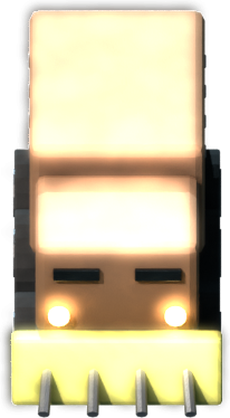
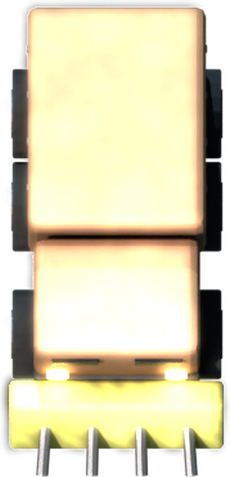
Lengthen Last Stand to 2 minutes; vehicles follow the road
- Four waves over 120 seconds instead of three over 60, with the War
  Rig in the last 16 seconds and a Lumen line for each wave.
- Raider vehicles are re-rendered from nearly overhead, so they can be
  turned to face their direction of travel.
- They follow a rounded version of the road (corner-cut, still inside
  the drawn road), steer gradually, keep their own drifting lane, ease
  off into bends, bounce and judder, and kick up dust.

Balance re-checked by simulation: idle play fails from threat 2, gun
nest spam holds to about 9, a planned build to about 12 or 13.

diff --git a/client/operations.js b/client/operations.js
@@ -158,29 +158,30 @@
       const raiders = [], rounds = [], shells = [], beams = [], flames = [], fx = [], popups = [], towers = LS_PADS.map(() => null);
       const dist = (a, b) => Math.hypot((a.x - b.x) * FWH, a.y - b.y);
       // the road as segments measured in canvas heights, so raider speeds read the same on every screen
-      const segs = []; let roadLength = 0; for (let i = 1; i < LS_PATH.length; i++) { const [x0, y0] = LS_PATH[i - 1], [x1, y1] = LS_PATH[i], len = Math.hypot((x1 - x0) * FWH, y1 - y0); segs.push({ x0, y0, x1, y1, len, at: roadLength }); roadLength += len; }
-      function along(d) { const sg = segs.find(q => d <= q.at + q.len) || segs[segs.length - 1], k = Math.max(0, Math.min(1, (d - sg.at) / sg.len)); return { x: sg.x0 + (sg.x1 - sg.x0) * k, y: sg.y0 + (sg.y1 - sg.y0) * k, angle: Math.atan2(sg.x1 - sg.x0, -(sg.y1 - sg.y0)) }; }
+      let route = LS_PATH; for (let k = 0; k < 3; k++) route = [route[0], ...route.slice(0, -1).flatMap((p, i) => { const q = route[i + 1]; return [[p[0] * .75 + q[0] * .25, p[1] * .75 + q[1] * .25], [p[0] * .25 + q[0] * .75, p[1] * .25 + q[1] * .75]]; }), route[route.length - 1]];
+      const segs = []; let roadLength = 0; for (let i = 1; i < route.length; i++) { const [x0, y0] = route[i - 1], [x1, y1] = route[i], len = Math.hypot((x1 - x0) * FWH, y1 - y0); segs.push({ x0, y0, x1, y1, len, at: roadLength }); roadLength += len; }
+      function along(d) { const sg = segs.find(q => d <= q.at + q.len) || segs[segs.length - 1], k = Math.max(0, Math.min(1, (d - sg.at) / sg.len)); const dx = (sg.x1 - sg.x0) * FWH, dy = sg.y1 - sg.y0, len = Math.hypot(dx, dy) || 1; return { x: sg.x0 + (sg.x1 - sg.x0) * k, y: sg.y0 + (sg.y1 - sg.y0) * k, angle: Math.atan2(-dx, dy), nx: -dy / len, ny: dx / len }; }
       const squadSize = Math.max(3, Math.min(8, Object.values(s.squad || {}).reduce((a, b) => a + b, 0) || 3));
       const soldiers = Array.from({ length: squadSize }, (_, i) => ({ x: .5 + (i - (squadSize - 1) / 2) * Math.min(.06, .3 / squadSize), y: LINE + .012, hp: 4, cd: Math.random() }));
       // raiders get 18% tougher per threat level; towers don't, so later levels need upgrades and good placement
       const tough = n => Math.max(1, Math.round(n * (1 + .18 * (L - 1))));
       const types = {
-        bike: { hp: tough(1), speed: .085, dmg: 6, scrap: 2, art: 'lsBike', size: .1 },
-        technical: { hp: tough(3), speed: .06, dmg: 10, scrap: 5, art: 'lsTechnical', size: .17, gun: true },
-        truck: { hp: tough(6), speed: .042, dmg: 20, scrap: 8, art: 'lsTruck', size: .21, heavy: true },
+        bike: { hp: tough(1), speed: .085, dmg: 6, scrap: 2, art: 'lsBike', size: .065 },
+        technical: { hp: tough(3), speed: .06, dmg: 10, scrap: 5, art: 'lsTechnical', size: .11, gun: true },
+        truck: { hp: tough(6), speed: .042, dmg: 20, scrap: 8, art: 'lsTruck', size: .12, heavy: true },
         mortar: { hp: tough(3), speed: .075, dmg: 0, scrap: 6, art: 'lsMortar', size: .16, park: .46 },
-        warrig: { hp: tough(26), speed: .03, dmg: 40, scrap: 20, art: 'lsWarrig', size: .28, heavy: true, boss: true },
+        warrig: { hp: tough(26), speed: .03, dmg: 40, scrap: 20, art: 'lsWarrig', size: .17, heavy: true, boss: true },
       };
       // the wall level the player has reinforced to sets how much the gate can take
       const walls = Math.max(1, s.walls || 1), maxHp = 100 + 25 * (walls - 1);
       let hp = maxHp, elapsed = 0, spawn = 0, fire = 0, focus = null, aim = 0, muzzle = 0, overcharge = 0, overCd = 3, strikeCd = 4, strike = null, orbit = 0, hurt = 0, shake = 0, line = null, lowWarned = false, kills = 0, scrap = 35, waveShown = 0, rigSent = false, buildPad = -1;
       if (L === 1) towers[0] = { type: 'gun', level: 0, cd: 0, aim: 0 }; // a first nest is already up, so new players see a tower working
       // the run's shape: a build window, three waves with short lulls, and the War Rig near the end
-      const waves = [{ from: 7, to: 23 }, { from: 27, to: 43 }, { from: 46, to: s.duration - 2 }];
+      const waves = s.duration >= 100 ? [{ from: 7, to: 32 }, { from: 36, to: 61 }, { from: 65, to: 90 }, { from: 94, to: s.duration - 2 }] : [{ from: 7, to: 23 }, { from: 27, to: 43 }, { from: 46, to: s.duration - 2 }], lastWave = waves.length;
       const waveAt = t => waves.findIndex(w => t >= w.from && t < w.to) + 1;
       const speak = text => { line = { who: 'LUMEN', text, t: 3.6 }; };
       function pick(wave) { const r = Math.random(), heavy = Math.min(.35, (L - 1) * .025 + wave * .05); if (L >= 4 && wave >= 2 && r < .08 + L * .005) return 'mortar'; if (L >= 3 && r < .18 + heavy * .4) return 'truck'; if (L >= 2 && r < .32 + heavy) return 'technical'; return 'bike'; }
-      function send(type) { const t = types[type]; raiders.push({ type, d: 0, x: .5, y: -.06, hp: t.hp, max: t.hp, flash: 0, gunCd: 1.2 + Math.random(), slow: 0, mark: 0, engaged: null, hitCd: 0, angle: 0 }); }
+      function send(type) { const t = types[type], lane = (Math.random() - .5) * (t.heavy ? .015 : .04); raiders.push({ type, d: 0, x: .5, y: -.06, hp: t.hp, max: t.hp, flash: 0, gunCd: 1.2 + Math.random(), slow: 0, mark: 0, engaged: null, hitCd: 0, angle: 0, heading: 0, lane, laneGoal: lane, pace: .7, wob: Math.random() * 6, dust: 0 }); }
       function hitGate(amount, x, y) { if (!amount) return; hp = Math.max(0, hp - amount); hurt = .5; shake = Math.min(9, shake + 4); haptic(30); burst(fx, x, y || GATE, '#ff6b3d', 14); popup(popups, x, (y || GATE) - .04, 'GATE -' + amount, '#ff8c76'); }
       function hit(game, r, n, color) {
         if (!raiders.includes(r)) return; n *= 1 + r.mark; r.hp -= n; r.flash = .1; burst(fx, r.x, r.y, color || '#ffb04d', 3); if (r.hp > 0) return;
@@ -220,18 +221,20 @@
           if (this.failed) return; elapsed += dt; if (elapsed > 5 && !$('opsTip').hidden) $('opsTip').hidden = true;
           if (elapsed < .1) speak(L === 1 ? 'Raiders in a few seconds. Tap a glowing pad to build a tower with scrap.' : 'Build while you can. Raiders hit the road in seven seconds.');
           const wave = waveAt(elapsed);
-          if (wave && wave !== waveShown) { waveShown = wave; popup(popups, .5, .58, wave === 3 ? 'FINAL WAVE' : 'WAVE ' + wave, wave === 3 ? '#ff6c58' : '#ffd36a'); popups[popups.length - 1].big = true; if (wave > 1) { scrap += 10; popup(popups, .5, .64, '+10 scrap', '#ffd36a'); } speak(wave === 1 ? 'Here they come. Your gunners hold the line at the gate.' : wave === 2 ? (L >= 3 ? 'Trucks take a beating: rail guns crack them open.' : 'More coming. Spend that scrap.') : 'Final wave. Something big is coming down the road.'); }
+          if (wave && wave !== waveShown) { waveShown = wave; popup(popups, .5, .58, wave === lastWave ? 'FINAL WAVE' : 'WAVE ' + wave, wave === lastWave ? '#ff6c58' : '#ffd36a'); popups[popups.length - 1].big = true; if (wave > 1) { scrap += 10; popup(popups, .5, .64, '+10 scrap', '#ffd36a'); } speak(wave === 1 ? 'Here they come. Your gunners hold the line at the gate.' : wave === lastWave ? 'Final wave. Something big is coming down the road.' : wave === 2 ? (L >= 3 ? 'Trucks take a beating: rail guns crack them open.' : 'More coming. Spend that scrap.') : (L >= 4 ? 'They are bringing mortars. Hit them before they set up.' : 'Halfway there. Upgrade what is working.')); }
           hurt = Math.max(0, hurt - dt); shake = Math.max(0, shake - dt * 16); muzzle = Math.max(0, muzzle - dt); overcharge = Math.max(0, overcharge - dt); overCd = Math.max(0, overCd - dt); strikeCd = Math.max(0, strikeCd - dt); orbit += dt * 1.8; if (line) { line.t -= dt; if (line.t <= 0) line = null; }
           if (wave) { spawn -= dt; if (spawn <= 0) { spawn = Math.max(.4, 1.12 - L * .03 - wave * .08) * (.75 + Math.random() * .5); send(pick(wave)); } }
-          if (!rigSent && elapsed >= s.duration - 14) { rigSent = true; send('warrig'); popup(popups, .5, .1, 'WAR RIG INBOUND', '#ff6c58'); popups[popups.length - 1].big = true; }
+          if (!rigSent && elapsed >= s.duration - 16) { rigSent = true; send('warrig'); popup(popups, .5, .1, 'WAR RIG INBOUND', '#ff6c58'); popups[popups.length - 1].big = true; }
           // the road: raiders move along it, slowed by beacons, and stop to fight the squad's line
           raiders.forEach(r => { const t = types[r.type]; r.flash = Math.max(0, r.flash - dt); r.slow = 0; r.mark = 0;
             towers.forEach((tw, i) => { if (!tw || tw.type !== 'beacon') return; const v = LS_TOWERS.beacon; if (dist(r, towerAt(i)) < v.range[tw.level]) { r.slow = Math.max(r.slow, v.slow[tw.level]); r.mark = Math.max(r.mark, v.mark[tw.level]); } });
             const atLine = r.y >= LINE - .015 && r.d > roadLength * .8, guard = atLine && !t.heavy ? soldiers.find(q => q.hp > 0 && Math.abs(q.x - r.x) < .12) || soldiers.find(q => q.hp > 0) : null;
             if (guard) { r.hitCd -= dt; if (r.hitCd <= 0) { r.hitCd = .8; guard.hp -= 1; burst(fx, guard.x, guard.y, '#ff6b3d', 4); if (guard.hp <= 0) { popup(popups, guard.x, guard.y - .04, 'GUNNER DOWN', '#ff8c76'); if (soldiers.every(q => q.hp <= 0)) speak('The line has fallen. The turret is all that is left.'); } } }
-            else if (!(t.park && r.d >= roadLength * t.park)) { r.d += t.speed * (1 + L * .02) * (1 - r.slow) * dt; }
+            else if (!(t.park && r.d >= roadLength * t.park)) { const turn = Math.abs(Math.atan2(Math.sin(along(r.d + .04).angle - along(r.d).angle), Math.cos(along(r.d + .04).angle - along(r.d).angle))); r.pace += ((1 - Math.min(.35, turn * .9)) - r.pace) * Math.min(1, dt * 2.5); r.d += t.speed * (1 + L * .02) * (1 - r.slow) * r.pace * dt; }
             if (t.heavy && atLine) soldiers.forEach(q => { if (q.hp > 0 && Math.abs(q.x - r.x) < .06 && !q.trampled) { q.hp = 0; q.trampled = true; popup(popups, q.x, q.y - .04, 'GUNNER DOWN', '#ff8c76'); } });
-            const p = along(r.d); r.x = p.x; r.y = p.y; r.angle = p.angle;
+            if (Math.random() < dt * .5) r.laneGoal = (Math.random() - .5) * (t.heavy ? .015 : .04); r.lane += (r.laneGoal - r.lane) * Math.min(1, dt * 1.2); r.wob += dt * (t.heavy ? 5 : 9);
+            const p = along(r.d); r.x = p.x + p.nx * r.lane / FWH; r.y = p.y + p.ny * r.lane; r.heading += Math.atan2(Math.sin(p.angle - r.heading), Math.cos(p.angle - r.heading)) * Math.min(1, dt * 5); r.angle = r.heading;
+            r.dust -= dt; if (r.dust <= 0 && r.y > 0) { r.dust = t.heavy ? .05 : .08; fx.push({ x: r.x - Math.sin(-r.heading) * .02 / FWH, y: r.y - Math.cos(r.heading) * .025, vx: (Math.random() - .5) * .03, vy: -.01, t: .45, color: '#a8875a' }); }
             if (t.gun && r.y > .12 && r.y < .6) { r.gunCd -= dt; if (r.gunCd <= 0) { r.gunCd = Math.max(1.3, 2.4 - L * .05); shells.push({ kind: 'round', x0: r.x, y0: r.y + .03, tx: .5 + (Math.random() - .5) * .3, ty: GATE, t: 0, dur: .9, dmg: 2 + Math.floor(L / 8) }); } }
             if (t.park && r.d >= roadLength * t.park) { r.gunCd -= dt; if (r.gunCd <= 0) { r.gunCd = Math.max(2.6, 3.6 - L * .04); shells.push({ kind: 'mortar', x0: r.x, y0: r.y, tx: TURRET.x + (Math.random() - .5) * .16, ty: TURRET.y - .03, t: 0, dur: 1.7, dmg: 8 }); } } });
           for (let i = raiders.length - 1; i >= 0; i--) if (raiders[i].d >= roadLength - .005) { const r = raiders[i]; hitGate(types[r.type].dmg, r.x); burst(fx, r.x, GATE, '#ff8a3d', 20); raiders.splice(i, 1); if (focus === r) focus = null; }
@@ -269,10 +272,11 @@
           towers.forEach((tw, i) => { if (!tw || tw.type !== 'beacon') return; const at = towerAt(i), rr = LS_TOWERS.beacon.range[tw.level] * h; ctx.strokeStyle = 'rgba(255,210,122,' + (.25 + pulse * .2) + ')'; ctx.lineWidth = 2; ctx.setLineDash([6, 8]); ctx.beginPath(); ctx.ellipse(X(at.x), at.y * h, rr, rr * .7, 0, 0, Math.PI * 2); ctx.stroke(); ctx.setLineDash([]); });
           shells.forEach(q => { if (q.kind !== 'mortar') return; const k = q.t / q.dur, r = geo.h * (.05 - k * .02); ctx.strokeStyle = 'rgba(255,60,60,' + (.4 + k * .5) + ')'; ctx.lineWidth = 3; ctx.beginPath(); ctx.ellipse(X(q.tx), q.ty * h, r * 1.3, r * .7, 0, 0, Math.PI * 2); ctx.stroke(); ctx.fillStyle = 'rgba(255,40,40,' + k * .25 + ')'; ctx.fill(); });
           // raiders, then the squad, then the towers (front-most last)
-          [...raiders].sort((a, b) => a.y - b.y).forEach(r => { const tp = types[r.type], size = tp.size * geo.fw; ctx.fillStyle = '#0006'; ctx.beginPath(); ctx.ellipse(X(r.x), r.y * h + size * .35, size * .35, size * .12, 0, 0, Math.PI * 2); ctx.fill();
-            if (!drawArt(tp.art, X(r.x), r.y * h, size, Math.max(-.35, Math.min(.35, r.angle * .35)), r.flash > 0)) circle(X(r.x), r.y * h, 12, '#b52e2e', '#ff9a78');
+          [...raiders].sort((a, b) => a.y - b.y).forEach(r => { const tp = types[r.type], size = tp.size * geo.fw, im = art[tp.art], len = im && im.naturalWidth ? size * im.naturalHeight / im.naturalWidth : size, bob = Math.sin(r.wob) * len * (tp.heavy ? .008 : .015), judder = tp.park ? 0 : Math.sin(r.wob * 1.7) * (tp.heavy ? .01 : .03);
+            ctx.save(); ctx.translate(X(r.x) + 3, r.y * h + 4); ctx.rotate(r.heading); ctx.fillStyle = '#0007'; ctx.beginPath(); ctx.ellipse(0, 0, size * .42, len * .46, 0, 0, Math.PI * 2); ctx.fill(); ctx.restore();
+            if (!drawArt(tp.art, X(r.x), r.y * h + bob, size, tp.park ? 0 : r.heading + judder, r.flash > 0)) circle(X(r.x), r.y * h, 12, '#b52e2e', '#ff9a78');
             if (r.slow > 0) { ctx.save(); ctx.globalCompositeOperation = 'lighter'; ctx.globalAlpha = .45; ctx.drawImage(glowDot('#ffd27a', 48), X(r.x) - size * .5, r.y * h - size * .5, size, size); ctx.restore(); }
-            if (r.max > 1) bar(X(r.x) - size * .3, r.y * h - size * .62, size * .6, r.hp / r.max, r === focus ? '#7cf3ff' : tp.boss ? '#ff4b3e' : '#ff655d'); });
+            if (r.max > 1) bar(X(r.x) - geo.h * .025, r.y * h - len * .55 - 6, geo.h * .05, r.hp / r.max, r === focus ? '#7cf3ff' : tp.boss ? '#ff4b3e' : '#ff655d'); });
           if (focus && raiders.includes(focus)) { const size = types[focus.type].size * geo.fw * .62; ctx.save(); ctx.translate(X(focus.x), focus.y * h); ctx.rotate(t * 2); ctx.strokeStyle = '#7cf3ff'; ctx.lineWidth = 3; ctx.setLineDash([8, 6]); ctx.beginPath(); ctx.arc(0, 0, size, 0, Math.PI * 2); ctx.stroke(); ctx.restore(); }
           soldiers.forEach(q => { if (q.hp <= 0) return; const size = geo.fw * .075; drawArt('leader', X(q.x), q.y * h, size); });
           LS_PADS.forEach(([px, py], i) => { const tw = towers[i]; if (!tw) return; const v = LS_TOWERS[tw.type], size = geo.fw * (.15 + tw.level * .015); drawArt(v.art, X(px), py * h - size * .25, size); ctx.fillStyle = '#ffd27a'; ctx.font = '900 10px system-ui'; ctx.textAlign = 'center'; ctx.fillText('I'.repeat(tw.level + 1), X(px), py * h + size * .42); ctx.textAlign = 'left'; });
@@ -295,7 +299,7 @@
           ctx.restore();
           const red = Math.max(hurt * 1.6, hp < maxHp * .35 ? .25 + .2 * Math.sin(t * 6) : 0); if (red > 0) { ctx.save(); ctx.globalAlpha = Math.min(.85, red); ctx.drawImage(redEdge(w, h), 0, 0); ctx.restore(); }
           const wave = waveAt(elapsed), next = waves.find(q => q.from > elapsed);
-          drawHudBar(geo, X, 'GATE  -  WALLS LV ' + walls + '  -  ' + (wave ? (wave === 3 ? 'FINAL WAVE' : 'WAVE ' + wave) : next ? 'NEXT WAVE IN ' + Math.ceil(next.from - elapsed) + 's' : 'HOLD'), hp / maxHp, hp < maxHp * .35 ? '#ff4b3e' : '#7cf0a0', wave === 3);
+          drawHudBar(geo, X, 'GATE  -  WALLS LV ' + walls + '  -  ' + (wave ? (wave === lastWave ? 'FINAL WAVE' : 'WAVE ' + wave + ' OF ' + lastWave) : next ? 'NEXT WAVE IN ' + Math.ceil(next.from - elapsed) + 's' : 'HOLD'), hp / maxHp, hp < maxHp * .35 ? '#ff4b3e' : '#7cf0a0', wave === lastWave);
           drawBanner(geo, 'SCRAP ' + scrap + '   -   RAIDERS STOPPED ' + kills + ' / ' + s.target, kills >= s.target ? '#8cff9b' : '#ffd36a');
           drawSpeech(line, w, geo);
           if (this.failed) { ctx.font = '900 26px system-ui'; ctx.fillStyle = '#fff'; ctx.textAlign = 'center'; ctx.fillText('GATE OVERRUN', w / 2, h / 2); ctx.textAlign = 'left'; }

diff --git a/tools/blender/operations_art.py b/tools/blender/operations_art.py
@@ -176,9 +176,10 @@ def crate(band):
 
 # ---------- render the sprites ----------
 units = [
-    ('ls-bike', raider_bike, 1.75, (0, 0, 0.6), 300, 300, 50),
-    ('ls-technical', raider_technical, 3.2, (0, -0.1, 0.8), 360, 380, 50),
-    ('ls-truck', raider_truck, 4.4, (0, -0.2, 1.0), 420, 460, 50),
+    # raider vehicles are seen from nearly overhead, nose down the screen, so the game can turn them to follow the road
+    ('ls-bike', raider_bike, 1.9, (0, 0, 0.6), 220, 320, 12),
+    ('ls-technical', raider_technical, 3.4, (0, -0.1, 0.8), 300, 400, 12),
+    ('ls-truck', raider_truck, 5.2, (0, -0.3, 1.0), 300, 480, 12),
     ('ls-mortar', raider_mortar, 2.6, (0, 0, 0.3), 320, 300, 50),
     ('ls-turret', turret, 2.9, (0, 0.2, 0.5), 300, 300, 0),
     ('ex-rover', rover, 3.0, (0, 0, 0.6), 280, 320, 0),
@@ -248,7 +249,7 @@ def war_rig():
 for name, build, ortho, target, w, h, tilt in [
         ('ls-tower-gun', gun_nest, 1.7, (0, 0, 0.35), 260, 260, 50), ('ls-tower-burner', burner, 1.7, (0, 0, 0.45), 260, 260, 50),
         ('ls-tower-rail', railgun, 2.1, (0, -0.25, 0.5), 260, 280, 50), ('ls-tower-beacon', beacon, 1.7, (0, 0, 0.65), 240, 280, 50),
-        ('ls-warrig', war_rig, 6.4, (0, -0.4, 1.4), 440, 520, 50)]:
+        ('ls-warrig', war_rig, 7.0, (0, -0.4, 1.4), 360, 520, 12)]:
     if want(name): sprite(name, build, ortho, target, w, h, tilt, extra=[((0, -2, 3), (0.9, 0.95, 1.0), 60)])
 
 # ---------- arenas: same camera as the Leviathan's, so the floor fits the same playfield ----------

diff --git a/server/NWO.Server/Game/Operations.cs b/server/NWO.Server/Game/Operations.cs
@@ -20,7 +20,7 @@ public static class Operations
     // runs out a run may end, for Extraction's beacon, which opens in the final 12 seconds.
     static readonly Dictionary<string, Rule> Rules = new()
     {
-        ["laststand"] = new("Last Stand", 60, 12, 3, Cash: 150, Fuel: 20, Gold: 0, EarliestFinish: 0),
+        ["laststand"] = new("Last Stand", 120, 12, 3, Cash: 150, Fuel: 20, Gold: 0, EarliestFinish: 0),
         ["extraction"] = new("Extraction Run", 50, 3, 2.5, Cash: 120, Fuel: 40, Gold: 0, EarliestFinish: 12),
         ["leviathan"] = new("Leviathan Assault", 90, 1800, 120, Cash: 250, Fuel: 0, Gold: 1, EarliestFinish: 0),
     };

diff --git a/docs/GAME_OVERVIEW.md b/docs/GAME_OVERVIEW.md
@@ -410,7 +410,7 @@ Three short action games: **Last Stand** (tutorial), **Extraction Run** and **Le
 
   | Operation | Length | Target at level 1 | Target per level | Base win reward |
   |---|---|---|---|---|
-  | Last Stand | 60 s | 12 raiders | +3 | 150 cash, 20 fuel |
+  | Last Stand | 120 s | 12 raiders | +3 | 150 cash, 20 fuel |
   | Extraction Run | 50 s | 3 cargo | +2.5 (rounded down) | 120 cash, 40 fuel |
   | Leviathan Assault | 90 s | 1,800 damage | +120 | 250 cash, 1 gold (+1 gold per 4 levels) |
 
@@ -419,9 +419,9 @@ Three short action games: **Last Stand** (tutorial), **Extraction Run** and **Le
 
 #### Last Stand
 
-A tower defence with a hands-on turret. Raiders follow a winding road to the base's gate over 60 seconds: a 7-second build window, three waves with short lulls, and a War Rig (a boss truck) in the last 14 seconds.
+A tower defence with a hands-on turret. Raiders follow a winding road to the base's gate over 2 minutes: a 7-second build window, four waves with short lulls, and a War Rig (a boss truck) in the last 16 seconds. Vehicles are drawn from overhead and turned to follow the road, which the game rounds off at the bends; each keeps its own lane, eases off into turns, bounces and kicks up dust.
 
-- **Scrap and towers.** Every raider stopped earns scrap (bike 2, technical 5, mortar 6, truck 8, War Rig 20; +10 at the start of waves 2 and 3; 35 to start). Tap one of the six pads to build, tap a tower to upgrade it (three levels):
+- **Scrap and towers.** Every raider stopped earns scrap (bike 2, technical 5, mortar 6, truck 8, War Rig 20; +10 at the start of each wave after the first; 35 to start). Tap one of the six pads to build, tap a tower to upgrade it (three levels):
 
   | Tower | Cost (I / II / III) | Does |
   |---|---|---|
